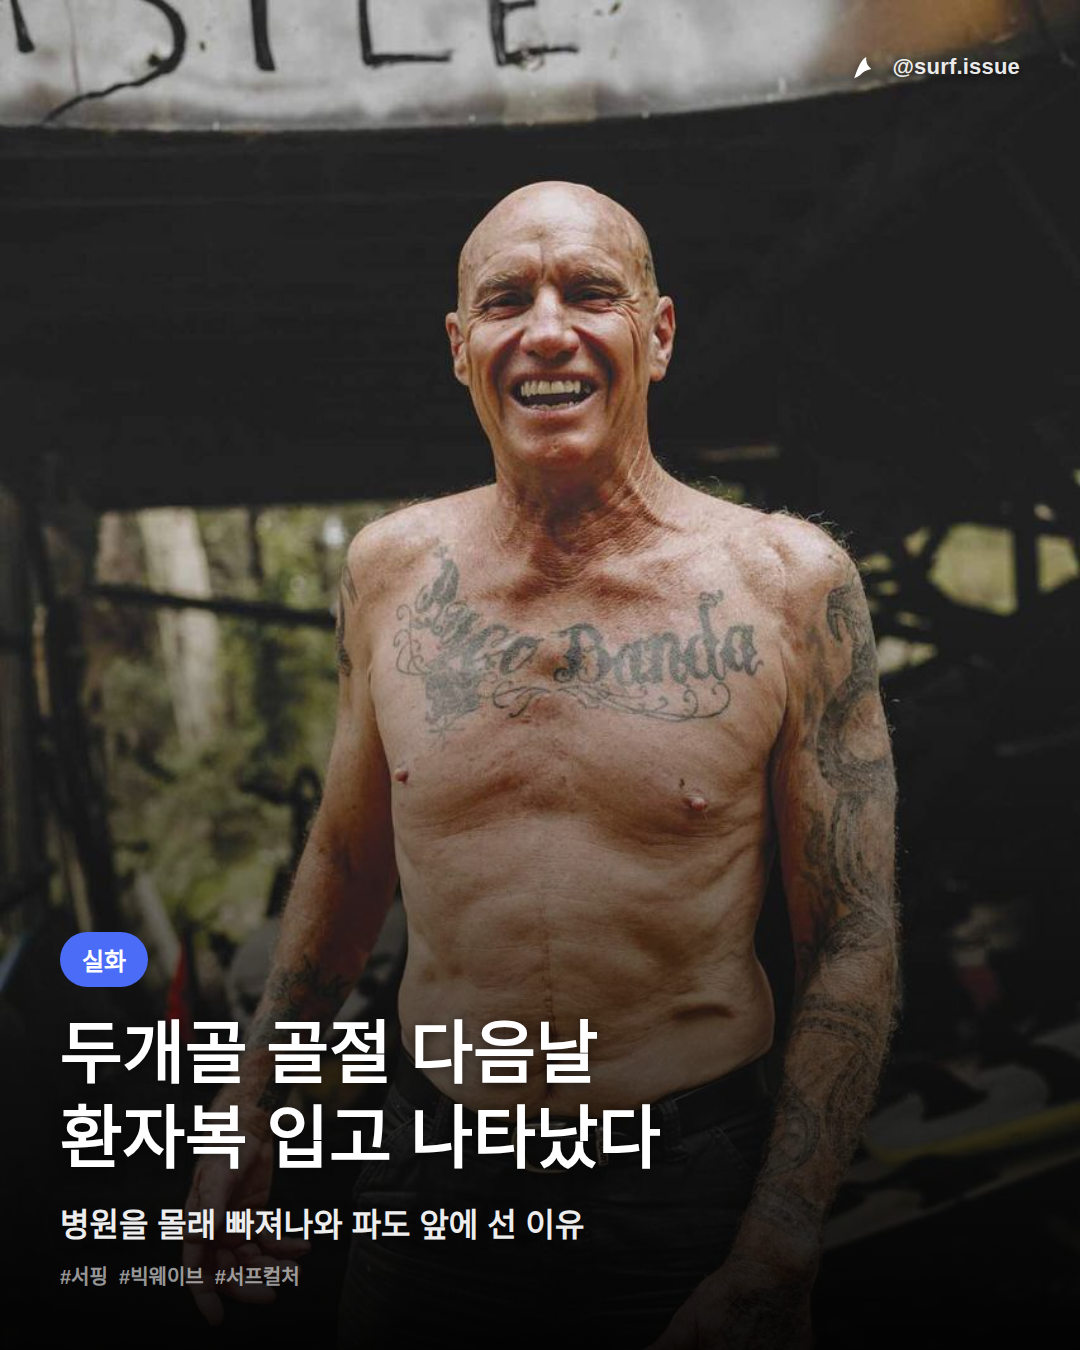
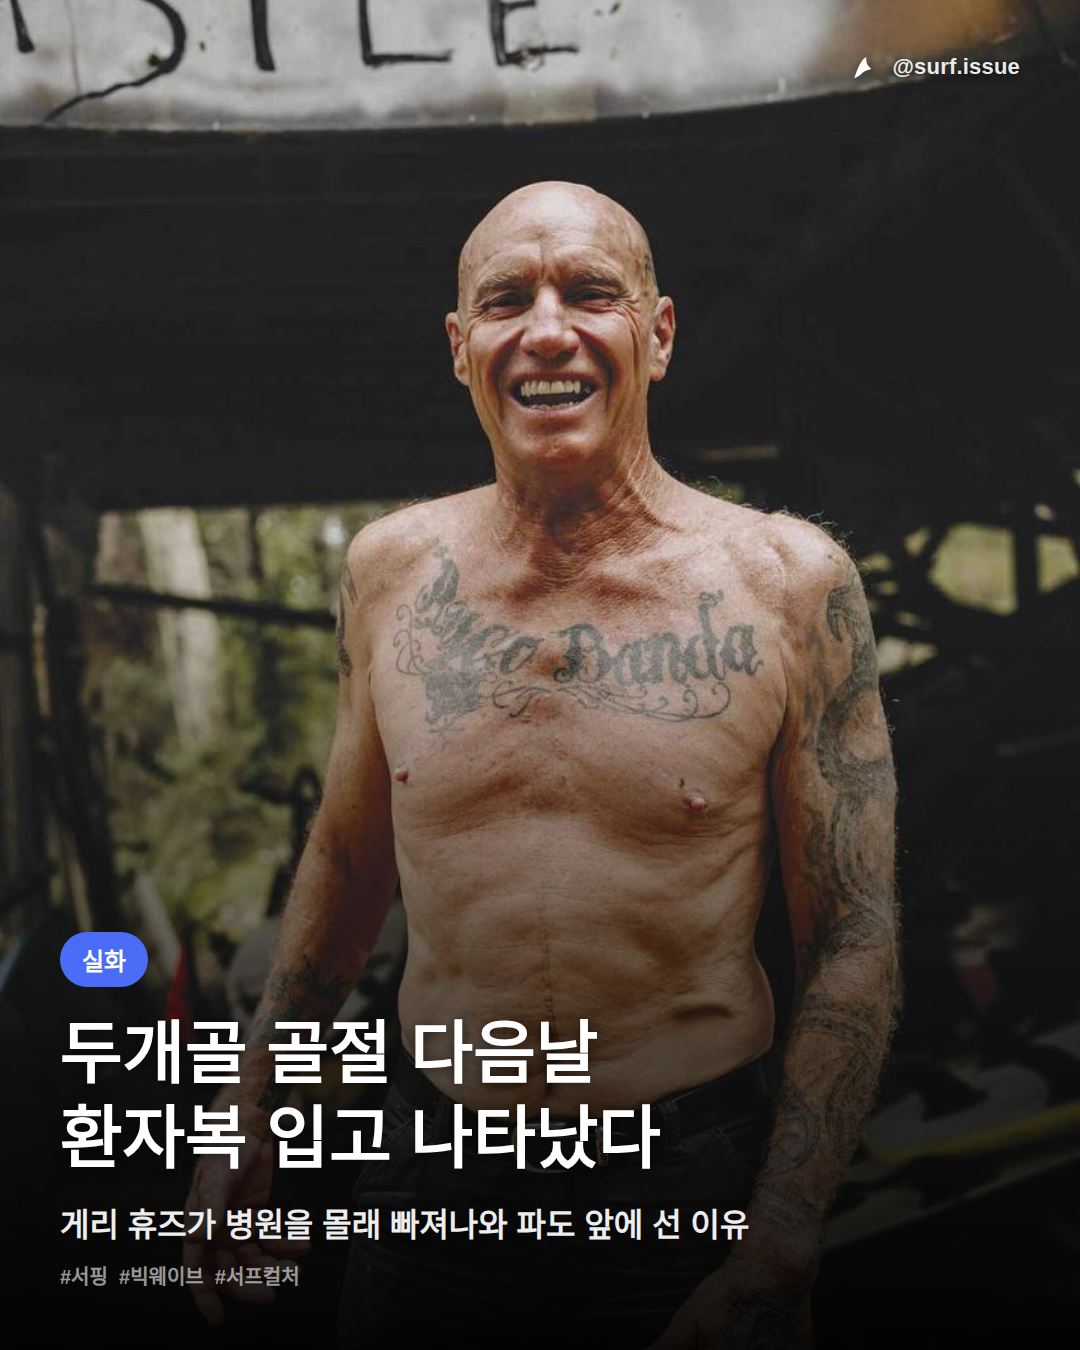
feat: 카드뉴스 제작 20260729_generations-of-core-gary-hughes (3회차)

Changed region(s): [[0.0611, 0.8711, 0.7028, 0.9333]]

diff --git a/output/cards/20260729_generations-of-core-gary-hughes/card_01.html b/output/cards/20260729_generations-of-core-gary-hughes/card_01.html
@@ -36,7 +36,7 @@
     <div class="text">
       <span class="badge">실화</span>
       <h1 class="headline">두개골 골절 다음날<br>환자복 입고 나타났다</h1>
-      <p class="subtext">병원을 몰래 빠져나와 파도 앞에 선 이유</p>
+      <p class="subtext">게리 휴즈가 병원을 몰래 빠져나와 파도 앞에 선 이유</p>
       <p class="tags">#서핑&nbsp;&nbsp;#빅웨이브&nbsp;&nbsp;#서프컬처</p>
     </div>
 
